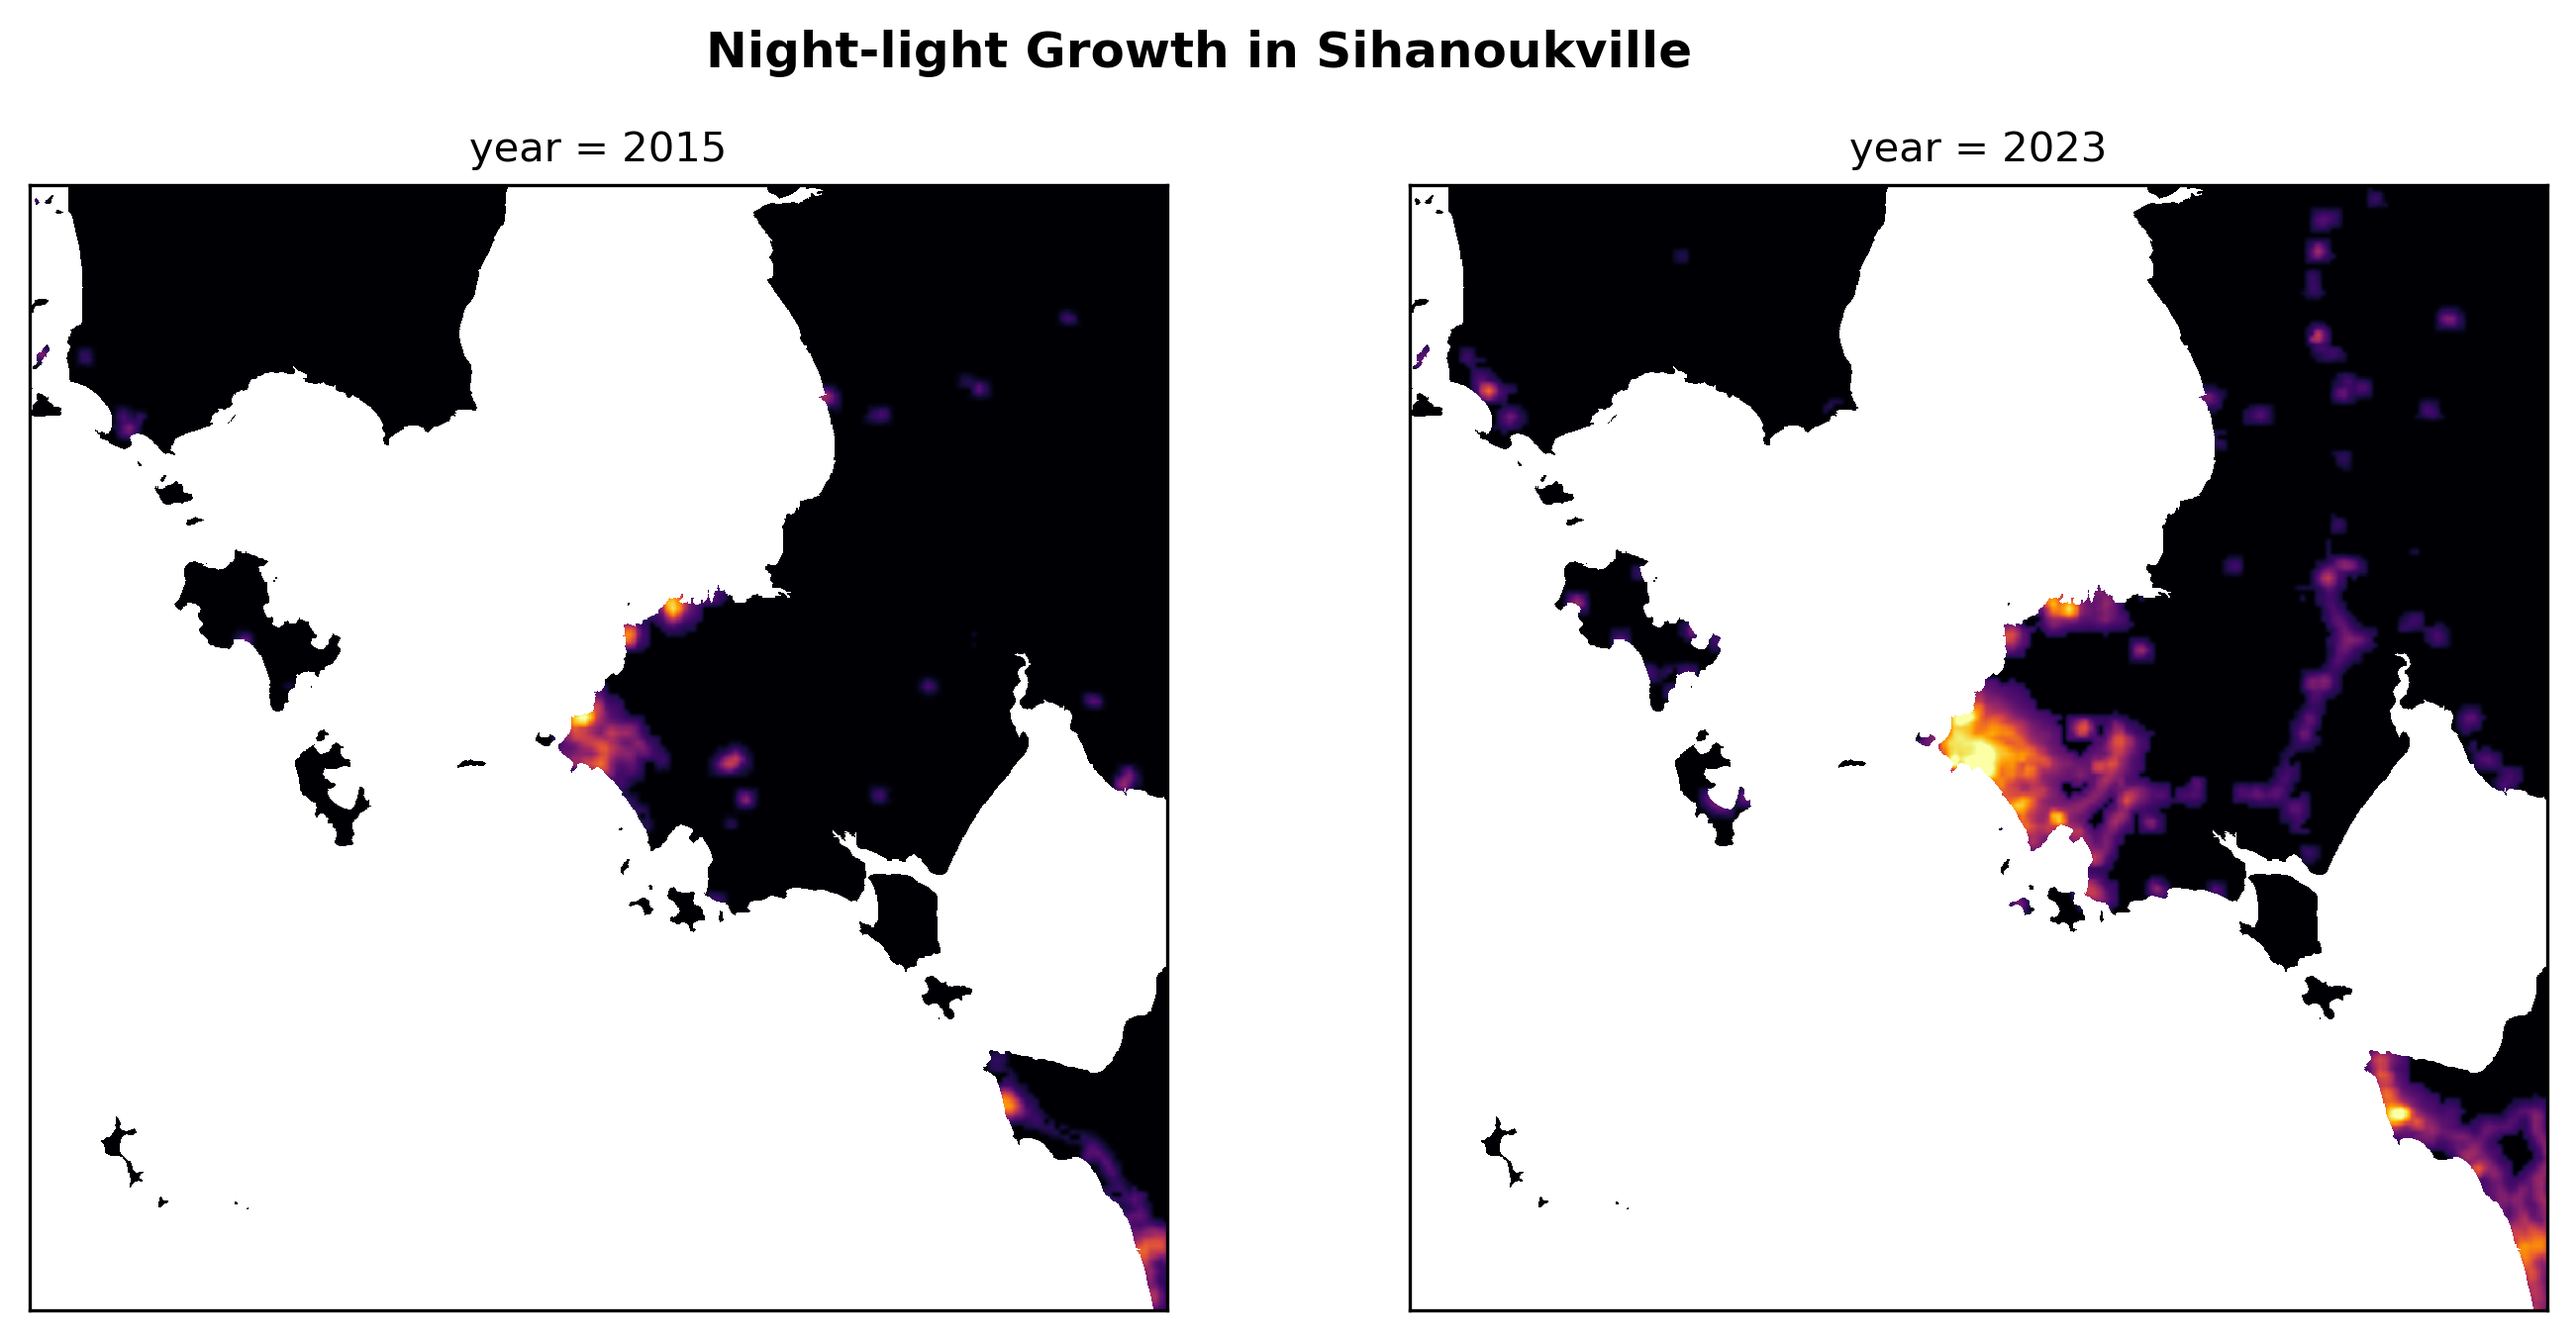
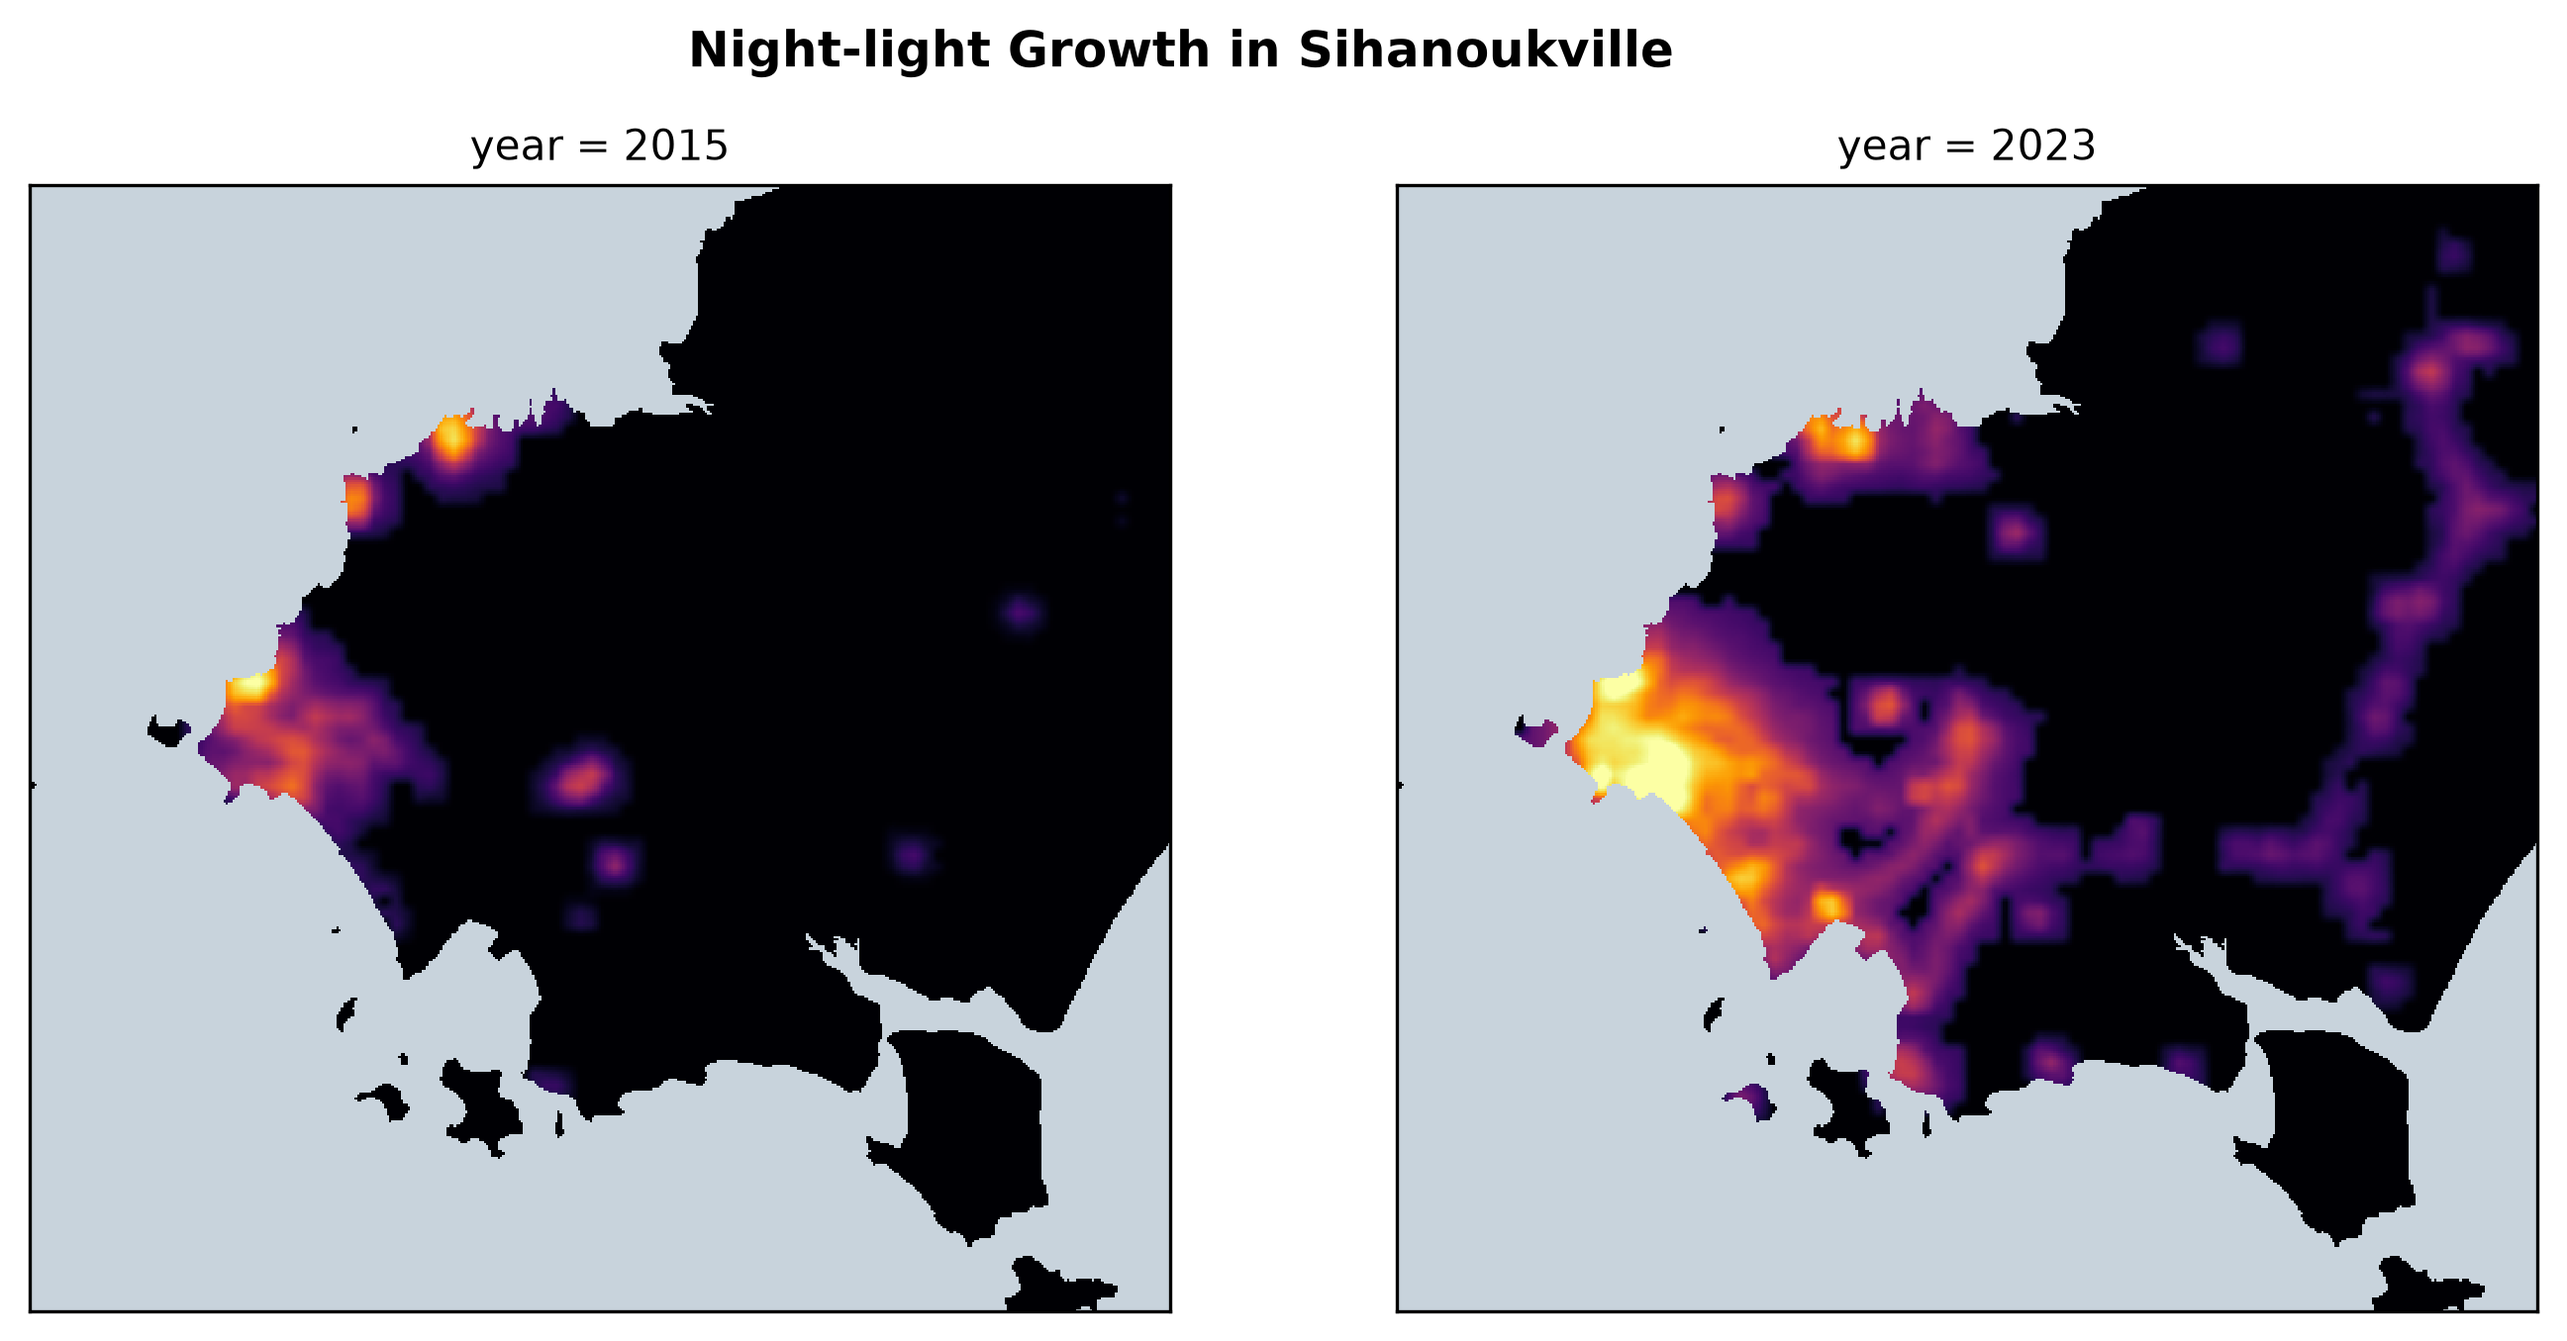
docs(examples): Show the night-light growth around Sihanoukville in a tighter frame, with the sea in light grey-blue instead of white
The AoI is now a 45 km box around the Sihanoukville Special Economic Zone instead of a 100 km box around "Preah Sihanouk", so the growing city fills more of the frame.

The box no longer touches Vietnam, so the example downloads only Cambodia's rasters (about 9 MB instead of about 106 MB).

The sea has no data and showed the white background, which outshone the lights; one line (subplot_kws={"facecolor": ...}) sets a light grey-blue background instead.

The README's code block and the gallery image are updated to match.

diff --git a/examples/quickstart/02_sihanoukville_lights.py b/examples/quickstart/02_sihanoukville_lights.py
@@ -4,7 +4,7 @@ Quickstart 2: Visualise Growth of Night-Light Emissions Around Sihanoukville (Ca
 Illustrates `worldpoppy`'s time-series support and Xarray's powerful built-in plotting functions.
 
 Download Requirements:
-    This example requires night-light rasters for KHM and VNM (~100 MB).
+    This example requires night-light rasters for KHM (~9 MB).
     If cached files do not exist, they will be downloaded.
 """
 
@@ -13,11 +13,11 @@ from matplotlib.colors import LogNorm
 
 from worldpoppy import wp_raster, bbox_from_location, clean_axes
 
-# Fetch Time-Series: Night-light data for Sihanoukville
+# Fetch Time-Series: Night-light data around Sihanoukville
 # Different years will be stacked along the 'year' dimension of the DataArray.
 ntl_data = wp_raster(
     product_name="ntl_viirs_g2",  # Night lights from "Global 2" series
-    aoi=bbox_from_location("Preah Sihanouk", width_km=100),
+    aoi=bbox_from_location("Sihanoukville Special Economic Zone", width_km=45),
     years=['first', 'last'],  # Request first & last available year
 )
 
@@ -25,6 +25,7 @@ ntl_data = wp_raster(
 # We use Xarray's built-in plotting to create a facet grid by year.
 p = (ntl_data + 1).plot(
     col="year",
+    subplot_kws={"facecolor": "#c8d3dc"},  # sea (no data) in light grey-blue
     cmap="inferno",
     vmax=50,
     norm=LogNorm(),

diff --git a/README.md b/README.md
@@ -79,13 +79,14 @@ from worldpoppy import wp_raster, bbox_from_location, clean_axes
 # Fetch Two Years of Night-light Data for Sihanoukville (Cambodia)
 ntl_data = wp_raster(
     product_name="ntl_viirs_g2",
-    aoi=bbox_from_location("Preah Sihanouk", width_km=100),
+    aoi=bbox_from_location("Sihanoukville Special Economic Zone", width_km=45),
     years=['first', 'last']  # Request first & last available year 
 )
 
 # Plot: Xarray can create a facet grid by year
 p = (ntl_data + 1).plot(
     col="year", figsize=(10, 5),
+    subplot_kws={"facecolor": "#c8d3dc"},  # sea (no data) in light grey-blue
     cmap="inferno", vmax=50, norm=LogNorm(),
     add_colorbar=False  # Remove since radiance units are not intuitive
 )
